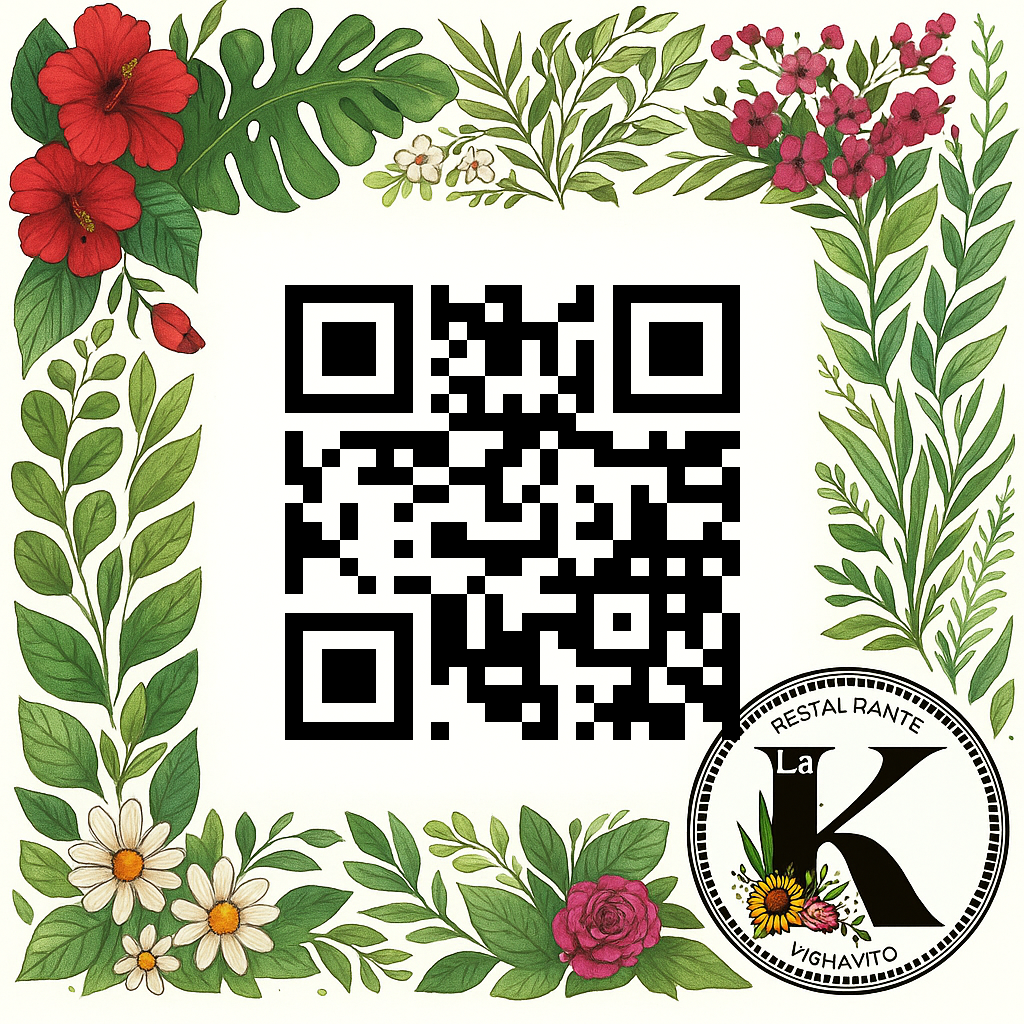
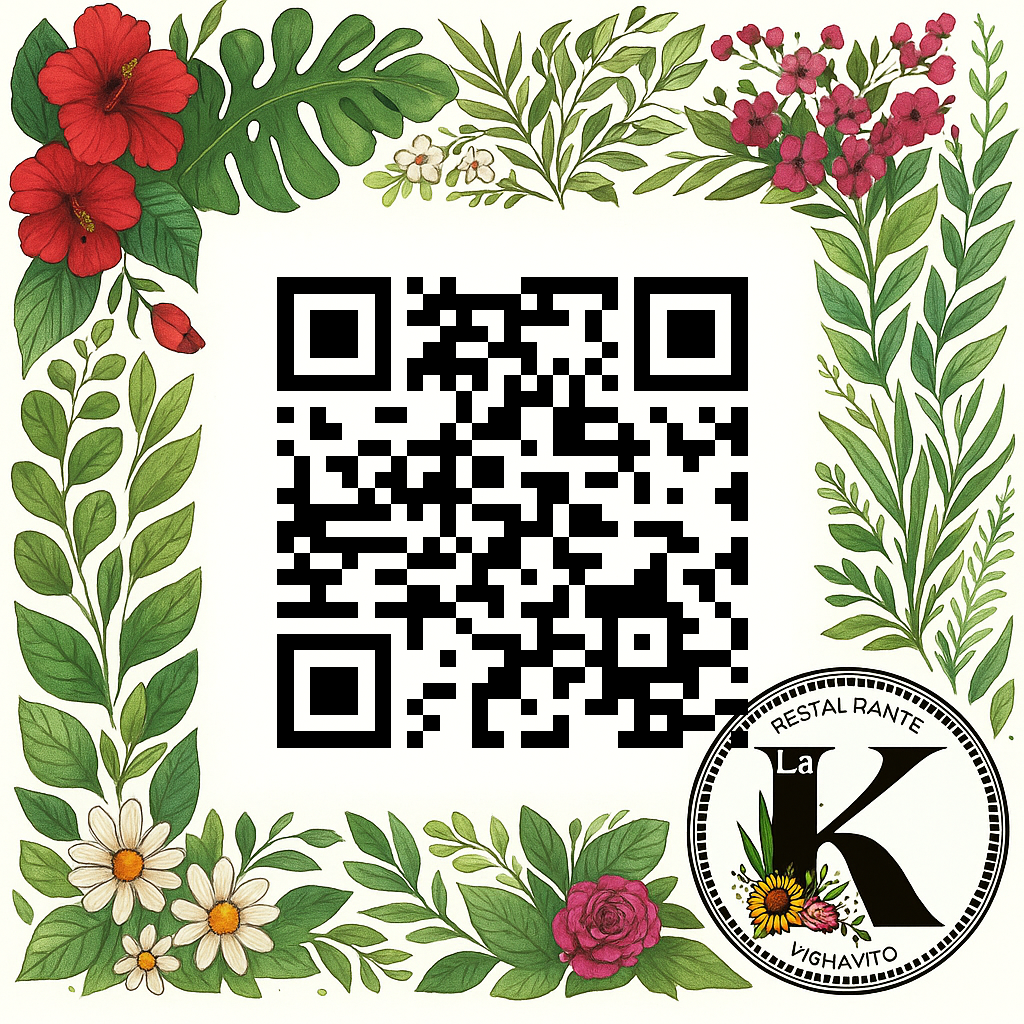
Primera versión estable y funcional de viw-carta. Ha llegado la hora de vender

Changed region(s): [[0.25, 0.25, 0.75, 0.75]]

diff --git a/src/components/ui/GenerateQRSection.tsx b/src/components/ui/GenerateQRSection.tsx
@@ -1,0 +1,122 @@
+"use client";
+
+import { useState } from "react";
+import Image from "next/image";
+import { Download, QrCode } from "lucide-react";
+
+interface GenerateQRSectionProps {
+  businessId: string;
+  businessSlug: string;
+  existingImageUrl?: string | null;
+}
+
+export default function GenerateQRSection({
+  businessId,
+  businessSlug,
+  existingImageUrl,
+}: GenerateQRSectionProps) {
+  const [qrUrl, setQrUrl] = useState<string | null>(null);
+  const [loading, setLoading] = useState(false);
+  const [status, setStatus] = useState<string>("");
+
+  // 🔹 Generar QR (llama al endpoint de generación)
+  const handleGenerate = async () => {
+    console.log("Generando QR para el negocio:", existingImageUrl);
+    if (existingImageUrl) {
+      confirm(
+        "Ya existe un código QR generado para este negocio. ¿estás seguro de que quieres generar uno nuevo?"
+      );
+    }
+    setLoading(true);
+    setStatus("Generando QR...");
+    try {
+      const res = await fetch(`/api/qr/generate/${businessId}`);
+      const data = await res.json();
+
+      if (!res.ok) throw new Error(data.error || "Error generando el QR");
+
+      setQrUrl(data.qrPath);
+      setStatus(data.message);
+    } catch (err: any) {
+      setStatus(`❌ ${err.message}`);
+    } finally {
+      setLoading(false);
+    }
+  };
+
+  // 🔹 Descargar QR (usa el endpoint de descarga)
+  const handleDownload = async () => {
+    try {
+      setStatus("Descargando QR...");
+      const res = await fetch(`/api/qr/download/${businessId}`);
+
+      if (!res.ok) {
+        const data = await res.json();
+        throw new Error(data.error || "Error al descargar el QR");
+      }
+
+      const blob = await res.blob();
+      const url = window.URL.createObjectURL(blob);
+      const link = document.createElement("a");
+      link.href = url;
+      link.download = `${businessSlug}-qr.png`;
+      link.click();
+      window.URL.revokeObjectURL(url);
+
+      setStatus("✅ QR descargado correctamente");
+    } catch (err: any) {
+      setStatus(`❌ ${err.message}`);
+    }
+  };
+  const shownImage = qrUrl || existingImageUrl || null;
+
+  return (
+    <div className="flex flex-col items-center gap-6 p-8 rounded-2xl bg-[#0f3d2e] text-white shadow-lg max-w-md mx-auto">
+      <h2 className="text-2xl font-semibold">Generador de QR</h2>
+
+      {/* Botones */}
+      <div className="flex gap-4">
+        <button
+          onClick={handleGenerate}
+          disabled={loading}
+          className="flex items-center gap-2 bg-white text-[#0f3d2e] px-5 py-2 rounded-xl font-medium hover:bg-opacity-90 transition"
+        >
+          <QrCode className="w-5 h-5" />
+          {loading ? "Generando..." : "Generar QR"}
+        </button>
+
+        <button
+          onClick={handleDownload}
+          disabled={loading}
+          className="flex items-center gap-2 bg-transparent border border-white px-5 py-2 rounded-xl font-medium hover:bg-white hover:text-[#0f3d2e] transition"
+        >
+          <Download className="w-5 h-5" />
+          Descargar
+        </button>
+      </div>
+
+      {/* Estado */}
+      {status && (
+        <p
+          className={`text-sm ${
+            status.startsWith("❌") ? "text-red-400" : "text-green-400"
+          }`}
+        >
+          {status}
+        </p>
+      )}
+
+      {/* Previsualización */}
+      {shownImage && (
+        <div className="relative w-64 h-64 mt-4 border-2 border-white rounded-xl overflow-hidden">
+          <Image
+            src={shownImage}
+            alt="Código QR generado"
+            fill
+            className="object-contain bg-white p-2 rounded-lg"
+          />
+        </div>
+      )}
+    </div>
+  );
+}

diff --git a/src/app/backoffice/business-profile/page.tsx b/src/app/backoffice/business-profile/page.tsx
@@ -10,7 +10,7 @@ import { Button } from "@/components/ui/button";
 import Image from "next/image";
 import QRFrameUploader from "@/components/ui/QrFrameUploader";
 import LogoImageUploader from "@/components/ui/LogoImageUploader";
-
+import GenerateQRSection from "@/components/ui/GenerateQRSection";
 interface Business {
   _id: string;
   name: string;
@@ -45,7 +45,6 @@ export default function BusinessProfileForm() {
         const { data } = await axios.get(
           `/api/settings/${session.user.restaurantId}`
         );
-        console.log("🚀 ~ page.tsx:41 ~ fetchBusiness ~ data:", data);
         setBusiness(data);
         setFormData(data);
       } catch (error) {
@@ -62,7 +61,6 @@ export default function BusinessProfileForm() {
 
   const handleSave = async () => {
     try {
-      console.log("🚀 ~ page.tsx:67 ~ handleSave ~ formData:", formData);
       const res = await axios.put(
         `/api/settings/update/${business?._id}`,
         formData,
@@ -70,7 +68,6 @@ export default function BusinessProfileForm() {
           headers: { "Content-Type": "multipart/form-data" },
         }
       );
-      console.log("🚀 ~ page.tsx:73 ~ handleSave ~ res:", res);
       setBusiness(res.data.business);
       setIsEditing(false);
       if (res.status === 200) {
@@ -155,7 +152,7 @@ export default function BusinessProfileForm() {
                 : null
             }
             onFileSelect={(file) =>
-              setFormData({ ...formData, imageFile: file })
+              setFormData({ ...formData, frameQRFile: file })
             }
           />
 
@@ -190,6 +187,13 @@ export default function BusinessProfileForm() {
               </>
             )}
           </div>
+          <GenerateQRSection
+            businessId={business._id}
+            businessSlug={business.slug}
+            existingImageUrl={
+              business.image ? `/${business.slug}/qr/${business.QrCode}` : null
+            }
+          />
         </CardContent>
       </Card>
     </div>

diff --git a/src/app/api/qr/download/[id]/route.ts b/src/app/api/qr/download/[id]/route.ts
@@ -1,0 +1,53 @@
+import { NextRequest, NextResponse } from "next/server";
+import path from "path";
+import fs from "fs";
+import { connectToDatabase } from "@/lib/mongodb";
+import Restaurant from "@/models/restaurants";
+
+export async function GET(
+  request: NextRequest,
+  { params }: { params: Promise<{ id: string }> }
+) {
+  const { id } = await params;
+  try {
+    await connectToDatabase();
+    const business = await Restaurant.findById(id);
+    if (!business) {
+      return NextResponse.json(
+        { error: "Negocio no encontrado" },
+        { status: 404 }
+      );
+    }
+
+    const qrPath = path.join(
+      process.cwd(),
+      "public",
+      business.slug,
+      "qr",
+      business.QrCode || "qr-final.png"
+    );
+
+    if (!fs.existsSync(qrPath)) {
+      return NextResponse.json(
+        { error: "El QR aún no ha sido generado" },
+        { status: 404 }
+      );
+    }
+
+    const fileBuffer = fs.readFileSync(qrPath);
+
+    // 🔽 Responder como archivo descargable
+    return new NextResponse(fileBuffer, {
+      headers: {
+        "Content-Type": "image/png",
+        "Content-Disposition": `attachment; filename="${business.slug}-qr.png"`,
+      },
+    });
+  } catch (error) {
+    console.error("❌ Error descargando el QR:", error);
+    return NextResponse.json(
+      { error: "Error interno del servidor" },
+      { status: 500 }
+    );
+  }
+}

diff --git a/src/app/api/qr/generate/[id]/route.ts b/src/app/api/qr/generate/[id]/route.ts
@@ -6,18 +6,14 @@ import fs from "fs";
 import { connectToDatabase } from "@/lib/mongodb";
 import Restaurant from "@/models/restaurants";
 
-export const runtime = "nodejs";
-
 export async function GET(
   request: NextRequest,
-
   { params }: { params: Promise<{ id: string }> }
 ) {
+  const { id } = await params;
   try {
     await connectToDatabase();
-    const { id } = await params;
     const business = await Restaurant.findById(id);
-
     if (!business) {
       return NextResponse.json(
         { error: "Negocio no encontrado" },
@@ -47,7 +43,7 @@ export async function GET(
     if (!fs.existsSync(outputDir)) fs.mkdirSync(outputDir, { recursive: true });
 
     // 1⃣ Generar QR temporal (por ejemplo, con la URL del menú del negocio)
-    const qrData = `https://192.168.1.122:3000/${business.slug}`;
+    const qrData = `https://viw-carta.vercel.app/${business.slug}`;
     const qrBuffer = await QRCode.toBuffer(qrData, {
       width: 600,
       color: { dark: "#000000", light: "#0000" }, // fondo transparente
